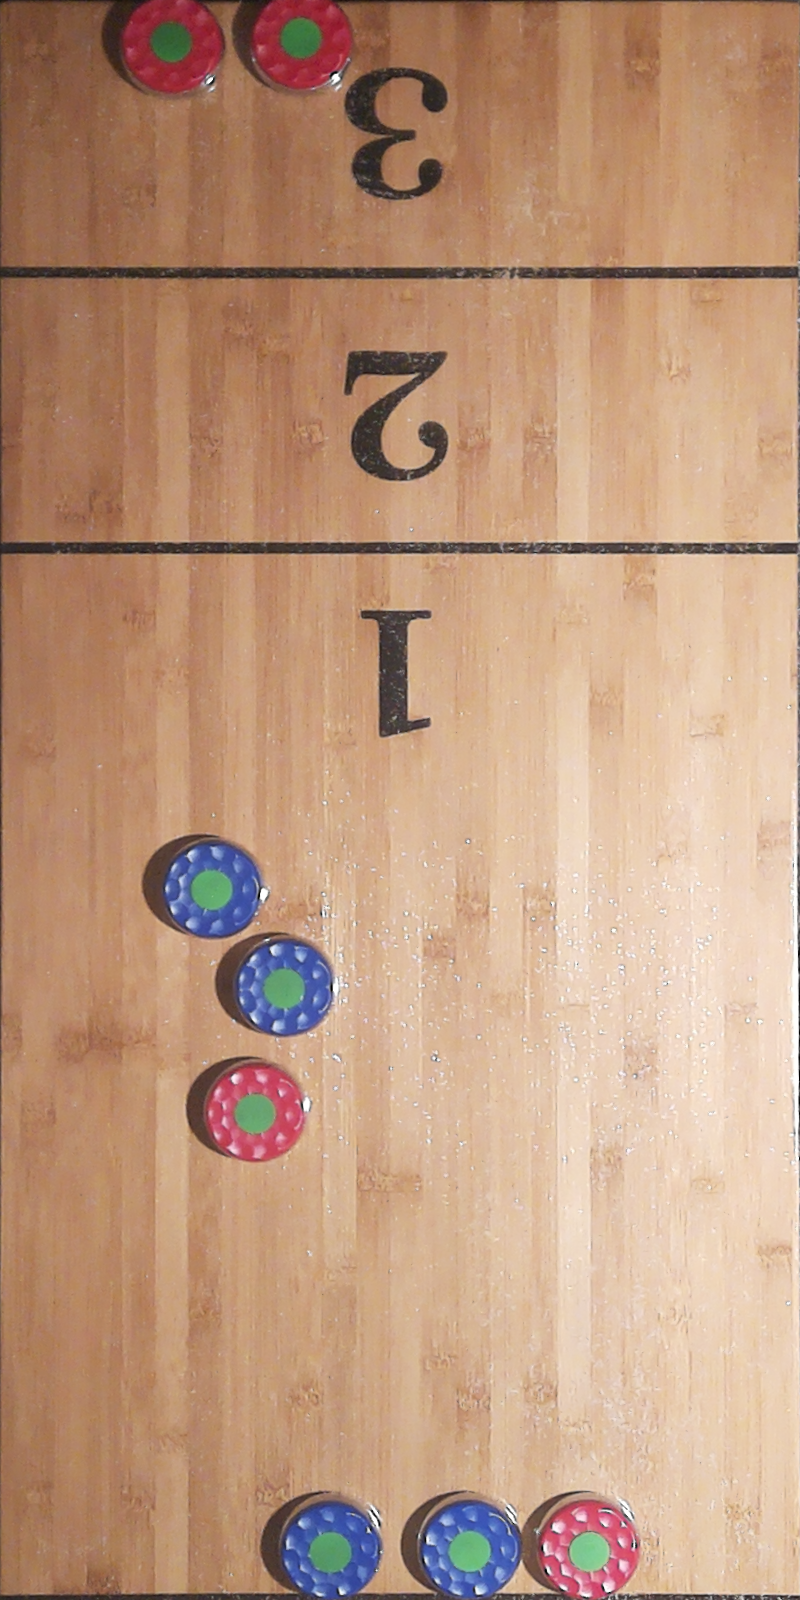
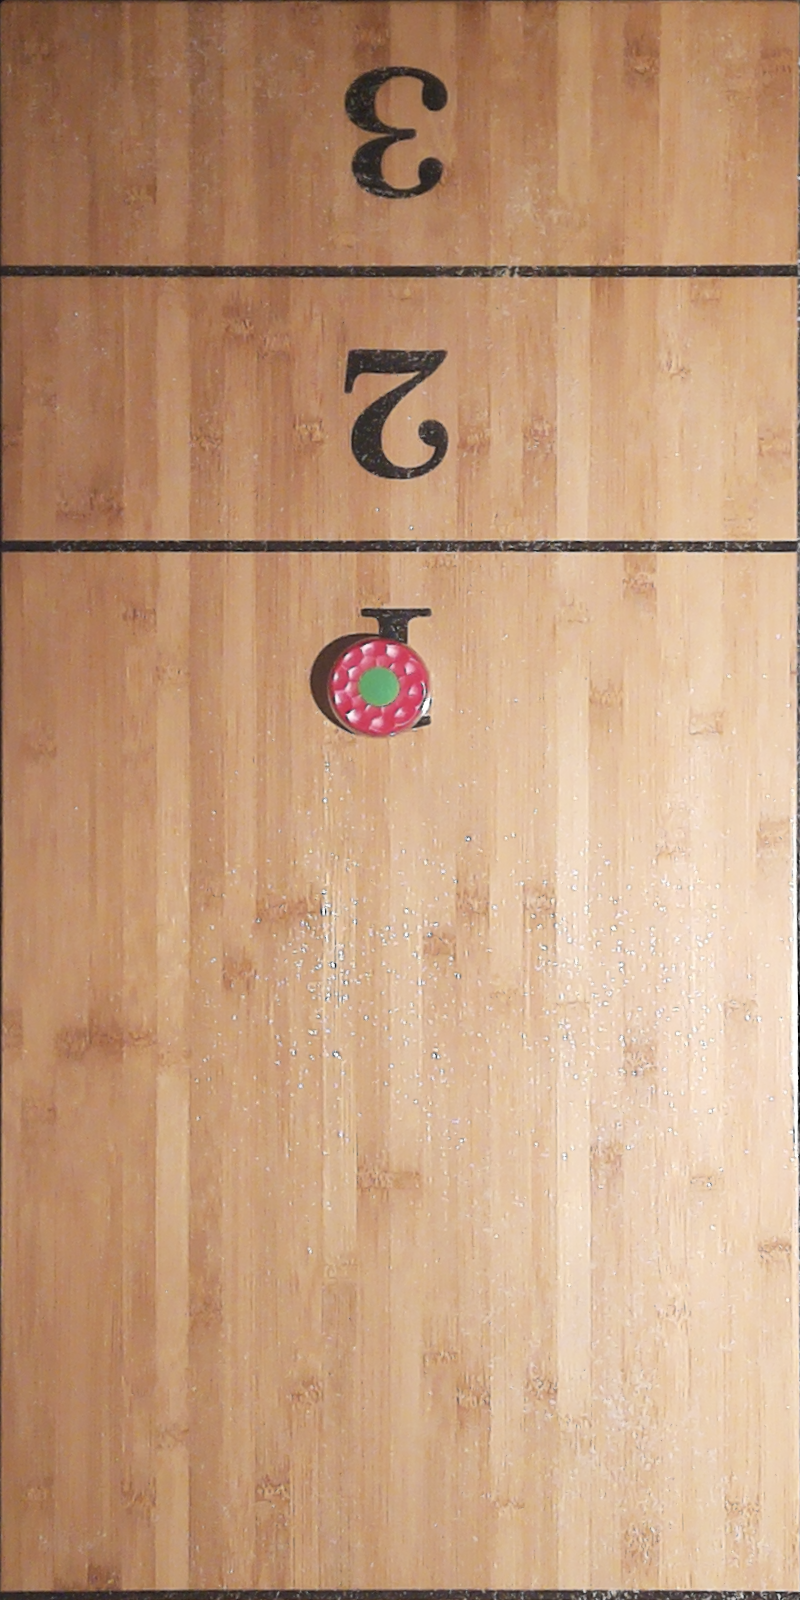
worked on gui proto

diff --git a/main.py b/main.py
@@ -13,15 +13,76 @@ from picamera2 import Picamera2
 outWidth = 800
 outHeight = 1600
 
-def drawRedorBlueCircle(imgin, imgout, x, y):
+class Puck:
+    def __init__(self, xVal, yVal, isBlue, idNum, scoreVal):
+        self.isBlue = isBlue
+        self.yVal = yVal
+        self.xVal = xVal
+        self.idNum = idNum
+        self.score = scoreVal
+    def getXVal(self):
+        return self.xVal
+    def getYVal(self):
+        return self.yVal
+    def getIsBlue(self):
+        return self.isBlue
+    def getIDNum(self):
+        return self.idNum
+    def getScore(self):
+        return self.score
+
+def drawCircles(puckList, tableImg):
+    for obj in puckList:
+        if obj.getIsBlue():
+            circleColor = (255,0,0)
+        else:
+            circleColor = (0,0,255)
+        
+        cv2.circle(tableImg,(int(obj.getXVal()),int(obj.getYVal())),47,circleColor,6)
+        #cv2.putText(imgout, str(obj.getIDNum()), (int(obj.getXVal())+52,int(obj.getYVal())+14), cv2.FONT_HERSHEY_SIMPLEX, 1.5, circleColor, 2, cv2.LINE_AA)
+        cv2.circle(tableImg,(int(obj.getXVal()),int(obj.getYVal())),20,circleColor,-1)
+
+    # puckRadius = 50
+    # xVal = int(x)
+    # yVal = int(y)
+    # colormask = np.zeros((outHeight,outWidth,1), np.uint8)
+    # cv2.circle(colormask,(int(x),int(y)),35,(255),30)
+    
+    # ret, mask = cv2.threshold(colormask, 10, 255, cv2.THRESH_BINARY)
+    # result = cv2.bitwise_and(imgin, imgin, mask=mask)
+    # r = result[:,:,2]
+
+    # data = r[np.nonzero(r)]
+    # means = np.mean(data, axis=None)
+
+    # redVal = round(means, 1)
+    # strRedVal = str(redVal)
+
+    # if redVal < 130:
+    #     circleColor = (255,0,0)
+    #     isBlue = True
+    # else:
+    #     circleColor = (0,0,255)
+    #     isBlue = False
+
+    # cv2.putText(imgout, str(int(y)), (xVal+52,yVal+14), cv2.FONT_HERSHEY_SIMPLEX, 1.5, circleColor, 2, cv2.LINE_AA)
+    # cv2.circle(imgout,(int(x),int(y)),47,circleColor,6)
+    # # draw the center of the circle
+    # cv2.circle(imgout,(int(x),int(y)),20,circleColor,-1)
+    return tableImg
+
+def isRedorBlue(imgin, x, y):
     puckRadius = 50
     xVal = int(x)
     yVal = int(y)
-    colormask = np.zeros((outHeight,outWidth,1), np.uint8)
+    colormask = np.zeros((1600,800,1), np.uint8)
     cv2.circle(colormask,(int(x),int(y)),35,(255),30)
     
     ret, mask = cv2.threshold(colormask, 10, 255, cv2.THRESH_BINARY)
     result = cv2.bitwise_and(imgin, imgin, mask=mask)
+    # cv2.imshow('mask??', mask)
+    # cv2.imshow('colormask', colormask)
+    # cv2.imshow('raw', imgin)
     r = result[:,:,2]
 
     data = r[np.nonzero(r)]
@@ -37,27 +98,13 @@ def drawRedorBlueCircle(imgin, imgout, x, y):
         circleColor = (0,0,255)
         isBlue = False
 
-    cv2.putText(imgout, str(int(y)), (xVal+52,yVal+14), cv2.FONT_HERSHEY_SIMPLEX, 1.5, circleColor, 2, cv2.LINE_AA)
-    cv2.circle(imgout,(int(x),int(y)),47,circleColor,6)
+    #cv2.putText(imgout, str(int(y)), (xVal+52,yVal+14), cv2.FONT_HERSHEY_SIMPLEX, 1.5, circleColor, 2, cv2.LINE_AA)
+    #cv2.circle(imgout,(int(x),int(y)),47,circleColor,6)
     # draw the center of the circle
-    cv2.circle(imgout,(int(x),int(y)),20,circleColor,-1)
+    #cv2.circle(imgout,(int(x),int(y)),20,circleColor,-1)
     return isBlue
-    
-class Puck:
-    def __init__(self, yVal, isBlue, idNum, scoreVal):
-        self.isBlue = isBlue
-        self.yVal = yVal
-        self.idNum = idNum
-        self.score = scoreVal
-    
-    def getYVal(self):
-        return self.yVal
-    def getIsBlue(self):
-        return self.isBlue
-    def getIDNum(self):
-        return self.idNum
-    def getScore(self):
-        return self.score
+
+
 
 def drawTable(line1, line2, line3):
     #define an all black image
@@ -79,15 +126,90 @@ def drawTable(line1, line2, line3):
 def resizeImg(img, width, height):
     return cv2.resize(img, (width, height), interpolation = cv2.INTER_AREA)
 
+def warpImg(img):
+    pts1 = np.float32([[2010,1186],[2813,1209],[2774,2912],[1940,2878]])
+    pts2 = np.float32([[0,0],[outWidth,0],[outWidth,outHeight],[0,outHeight]])
+
+    M = cv2.getPerspectiveTransform(pts1,pts2)
+
+    dst = cv2.warpPerspective(img,M,(outWidth,outHeight))
+    return dst
+
+def recolorImg(img):
+    frame = cv2.bitwise_not(img)
+
+    bgr_low = np.array([118, 0, 131], np.uint8)
+    bgr_high = np.array([159, 155, 255], np.uint8)
+	
+    greenMask = cv2.inRange(frame, bgr_low, bgr_high)
+    greenMask = cv2.medianBlur(greenMask,7)
+
+    kernel = np.ones((9,9),np.uint8)
+    kernel2 = np.ones((5,5),np.uint8)
+
+    closing = cv2.morphologyEx(greenMask, cv2.MORPH_CLOSE, kernel)
+    ret,thresh = cv2.threshold(closing,127,255,0)
+    return thresh
+
+def processImg(img):
+    res = warpImg(img)
+    res = recolorImg(res)
+    return res
+
+def findContours(imgCountours, imgRaw):
+    
+    contours,hierarchy = cv2.findContours(imgCountours, cv2.RETR_EXTERNAL , cv2.CHAIN_APPROX_NONE)
+    #smallthresh = resizeImg(thresh, 300, 600)
+    #cv2.imshow('mask',smallthresh) 
+    pucks = []
+
+    for i in contours[:]:
+        (x,y),radius = cv2.minEnclosingCircle(i)
+        center = (int(x),int(y))
+        radius = int(radius)
+       #scoring breakdown
+        if radius>15 and radius<30 and cv2.contourArea(i)>300:
+            if y<42:
+                score = 4
+            elif y<208:
+                score = 3
+            elif y<487:
+                score = 2
+            elif y<1552:
+                score = 1
+            else: 
+                score = 0
+
+            pucks.append(Puck(int(x),int(y),isRedorBlue(imgRaw,x, y),i,score))
+    return pucks
+
+def sortPucks(pucklist):
+    pucklist.sort(key=lambda x: x.getYVal())
+    return pucklist
+
+def scorePucks(sortedPuckList):
+    scoringPucks = []
+    if len(sortedPuckList) > 0:        
+        scoreIsBlue = sortedPuckList[0].getIsBlue()
+        runningScore = 0
+        for obj in sortedPuckList:
+            if obj.getIsBlue()==scoreIsBlue:
+                runningScore += obj.getScore()
+            else: break
+        if scoreIsBlue:
+            return (0,runningScore)
+        else:
+            return (runningScore,0)
+
 #Start Picam
-picam2 = Picamera2()
+# picam2 = Picamera2()
 
-preview_config = picam2.create_preview_configuration(main={"format": 'XRGB8888', "size": (640, 320)})
-capture_config = picam2.create_still_configuration(main={"format": 'XRGB8888', "size": (4656, 3496)})
-picam2.configure(capture_config)
-picam2.start()
+# preview_config = picam2.create_preview_configuration(main={"format": 'XRGB8888', "size": (640, 320)})
+# capture_config = picam2.create_still_configuration(main={"format": 'XRGB8888', "size": (4656, 3496)})
+# picam2.configure(capture_config)
+# picam2.start()
 
-
+"""
 while True:
 
     #define an all black image
@@ -134,7 +256,7 @@ while True:
     
     ret,thresh = cv2.threshold(closing,127,255,0)
     contours,hierarchy = cv2.findContours(thresh, cv2.RETR_EXTERNAL , cv2.CHAIN_APPROX_NONE)
-    smallthresh = resizeImg(thresh, 300, 600)
+    #smallthresh = resizeImg(thresh, 300, 600)
     #cv2.imshow('mask',smallthresh) 
     pucks = []
 
@@ -162,17 +284,17 @@ while True:
     #cv2.imshow('result',outputImg)
     #resized = cv2.resize(outputImg, dim, interpolation = cv2.INTER_AREA)
     #cv2.imshow('result',resized)
-    sortedPucks = []
+    # sortedPucks = []
 
-    while len(pucks)>0:
-        minimum = pucks[0]
-        for obj in pucks:
+    # while len(pucks)>0:
+    #     minimum = pucks[0]
+    #     for obj in pucks:
             
-            if obj.getYVal()<minimum.getYVal():
-                minimum = obj
-        sortedPucks.append(minimum)
-        pucks.remove(minimum)
-                
+    #         if obj.getYVal()<minimum.getYVal():
+    #             minimum = obj
+    #     sortedPucks.append(minimum)
+    #     pucks.remove(minimum)
+    sortedPucks = sortPucks(pucks)
     scoringPucks = []
     if len(sortedPucks) > 0:        
         scoreIsBlue = sortedPucks[0].getIsBlue()
@@ -192,3 +314,4 @@ while True:
         break
 picam2.close()
 cv2.destroyAllWindows()
+"""

diff --git a/guiTesting.py b/guiTesting.py
@@ -3,6 +3,7 @@ import numpy as np
 import cv2
 import keyboard
 from main import *
+from picamera2 import Picamera2
 
 cv2.namedWindow('ShuffleScore',cv2.WINDOW_FULLSCREEN)
 
@@ -12,6 +13,11 @@ greenColor = (0,255,0)
 
 blueScore = 0
 redScore = 0
+
+tempBlueScore = 0
+tempRedScore = 0
+
+picam2 = Picamera2()
 
 def leftUpButton():
     global redScore
@@ -29,8 +35,24 @@ def rightDownButton():
     global blueScore
     blueScore -= 1
 
-buttonLocations = [(150,200,200,100,'Increase',greenColor,leftUpButton),(150,600,200,100,'Decrease',greenColor,leftDownButton),(1150,200,200,100,'Increase',greenColor,rightUpButton),(1150,600,200,100,'Decrease',greenColor,rightDownButton)]
+def scoreTable():
+    global redScore
+    global blueScore
+    #(r,b) = score
+    redScore += liveRed
+    blueScore += liveBlue
 
+buttonLocations = [(150,100,200,100,'Increase',greenColor,leftUpButton),(150,500,200,100,'Decrease',greenColor,leftDownButton),(1150,100,200,100,'Increase',greenColor,rightUpButton),(1150,500,200,100,'Decrease',greenColor,rightDownButton),(625,800,250,100,'Run Score',greenColor,scoreTable)]
+def startPiCam2():
+    preview_config = picam2.create_preview_configuration(main={"format": 'XRGB8888', "size": (640, 320)})
+    capture_config = picam2.create_still_configuration(main={"format": 'XRGB8888', "size": (4656, 3496)})
+    picam2.configure(capture_config)
+    picam2.start()
+
+def getImage():
+    frame = picam2.capture_array()
+    frame = cv2.cvtColor(frame, cv2.COLOR_BGRA2BGR)
+    return frame
 
 
 def register_buttons(event,x,y,flags,param):
@@ -43,30 +65,15 @@ def register_buttons(event,x,y,flags,param):
                 funct()
                 break
             count+=1
-        if onButton:
-            print(redScore)
+        # if onButton:
+        #     print(redScore)
 
 def draw_buttons():
     for (x1,y1,w,h,string,color,funct) in buttonLocations:
         cv2.rectangle(img,(x1,y1),(x1+w,y1+h),color,-1)
-        cv2.putText(img,string,((x1+int(w/2)-75),(y1+int(h/2)+10)),cv2.FONT_HERSHEY_DUPLEX,1.1,(0,0,0),1,cv2.LINE_AA)
+        cv2.putText(img,string,((x1+28),(y1+int(h/2)+10)),cv2.FONT_HERSHEY_DUPLEX,1.1,(0,0,0),1,cv2.LINE_AA)
 
-
-cv2.setMouseCallback('ShuffleScore',register_buttons)
-
-
-#draw a sample output from the cam
-
-sampleOut = resizeImg(drawTable(546,271,0),490,900)
-sampleOut = cv2.copyMakeBorder(sampleOut,0,0,5,5,cv2.BORDER_CONSTANT,value=greenColor)
-img = np.zeros((900,1500,3), np.uint8)
-
-
-
-while(1):
-    img = np.zeros((900,1500,3), np.uint8)
-
-    draw_buttons()
+def draw_scores():
     if redScore > 9:
         redNumX = 90
     else:
@@ -77,11 +84,53 @@ while(1):
     else:
         blueNumX = 1165
     
-    cv2.putText(img,str(redScore),((redNumX),(528)),cv2.FONT_HERSHEY_DUPLEX,8,redColor,10,cv2.LINE_AA)
-    cv2.putText(img,str(blueScore),((blueNumX),(528)),cv2.FONT_HERSHEY_DUPLEX,8,blueColor,10,cv2.LINE_AA)
+    cv2.putText(img,str(redScore),((redNumX),(428)),cv2.FONT_HERSHEY_DUPLEX,8,redColor,10,cv2.LINE_AA)
+    cv2.putText(img,str(blueScore),((blueNumX),(428)),cv2.FONT_HERSHEY_DUPLEX,8,blueColor,10,cv2.LINE_AA)
+    cv2.putText(img,str(tempRedScore),((redNumX),(858)),cv2.FONT_HERSHEY_DUPLEX,8,greenColor,8,cv2.LINE_AA)
+    cv2.putText(img,str(tempBlueScore),((blueNumX),(858)),cv2.FONT_HERSHEY_DUPLEX,8,greenColor,8,cv2.LINE_AA)
+
+cv2.setMouseCallback('ShuffleScore',register_buttons)
 
 
-    img[0:900, 500:1000] = sampleOut
+#draw a sample output from the cam
+
+
+
+
+startPiCam2()
+
+while(1):
+    realOut = drawTable(546,271,0)
+    
+    capture = getImage()
+    raw = warpImg(capture)
+    dst = processImg(capture)
+
+    myPuckList = findContours(dst,raw)
+    
+    score = scorePucks(sortPucks(myPuckList))
+    
+    realOut = drawCircles(myPuckList, realOut)
+    
+
+    img = np.zeros((900,1500,3), np.uint8)
+    #cv2.imshow('out',realOut)
+    realOut = resizeImg(realOut,490,900)
+    realOut = cv2.copyMakeBorder(realOut,0,0,5,5,cv2.BORDER_CONSTANT,value=greenColor)
+    img[0:900, 500:1000] = realOut
+
+    if score != None:
+        (liveRed, liveBlue) = score
+    else:
+        (liveRed, liveBlue) = (0,0)
+    tempBlueScore = blueScore + liveBlue
+    tempRedScore = redScore + liveRed
+
+    draw_buttons()
+
+    draw_scores()
+
+    
     
 
     cv2.imshow('ShuffleScore',img)
@@ -90,5 +139,5 @@ while(1):
         break
     elif pressedKey == ord('r'):
         img = np.zeros((900,1500,3), np.uint8)
-
+picam2.close()
 cv2.destroyAllWindows()
